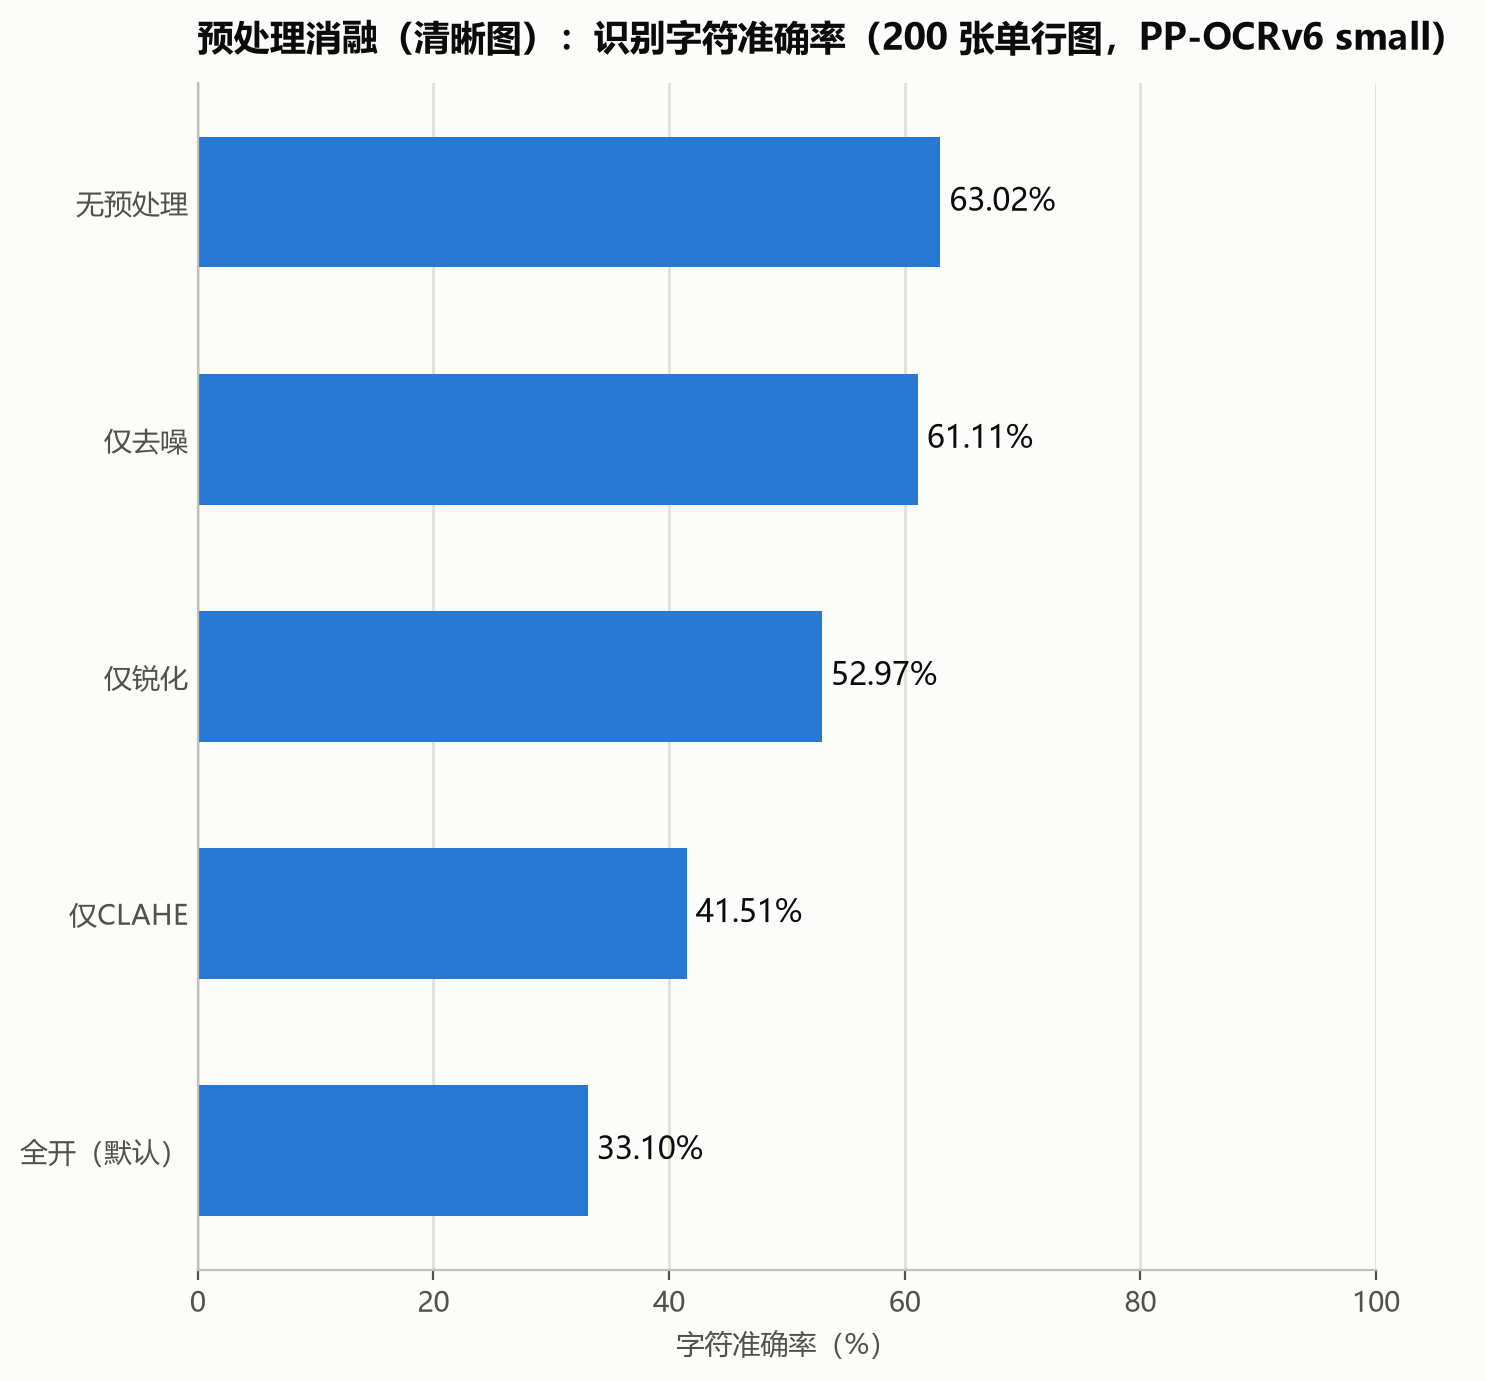
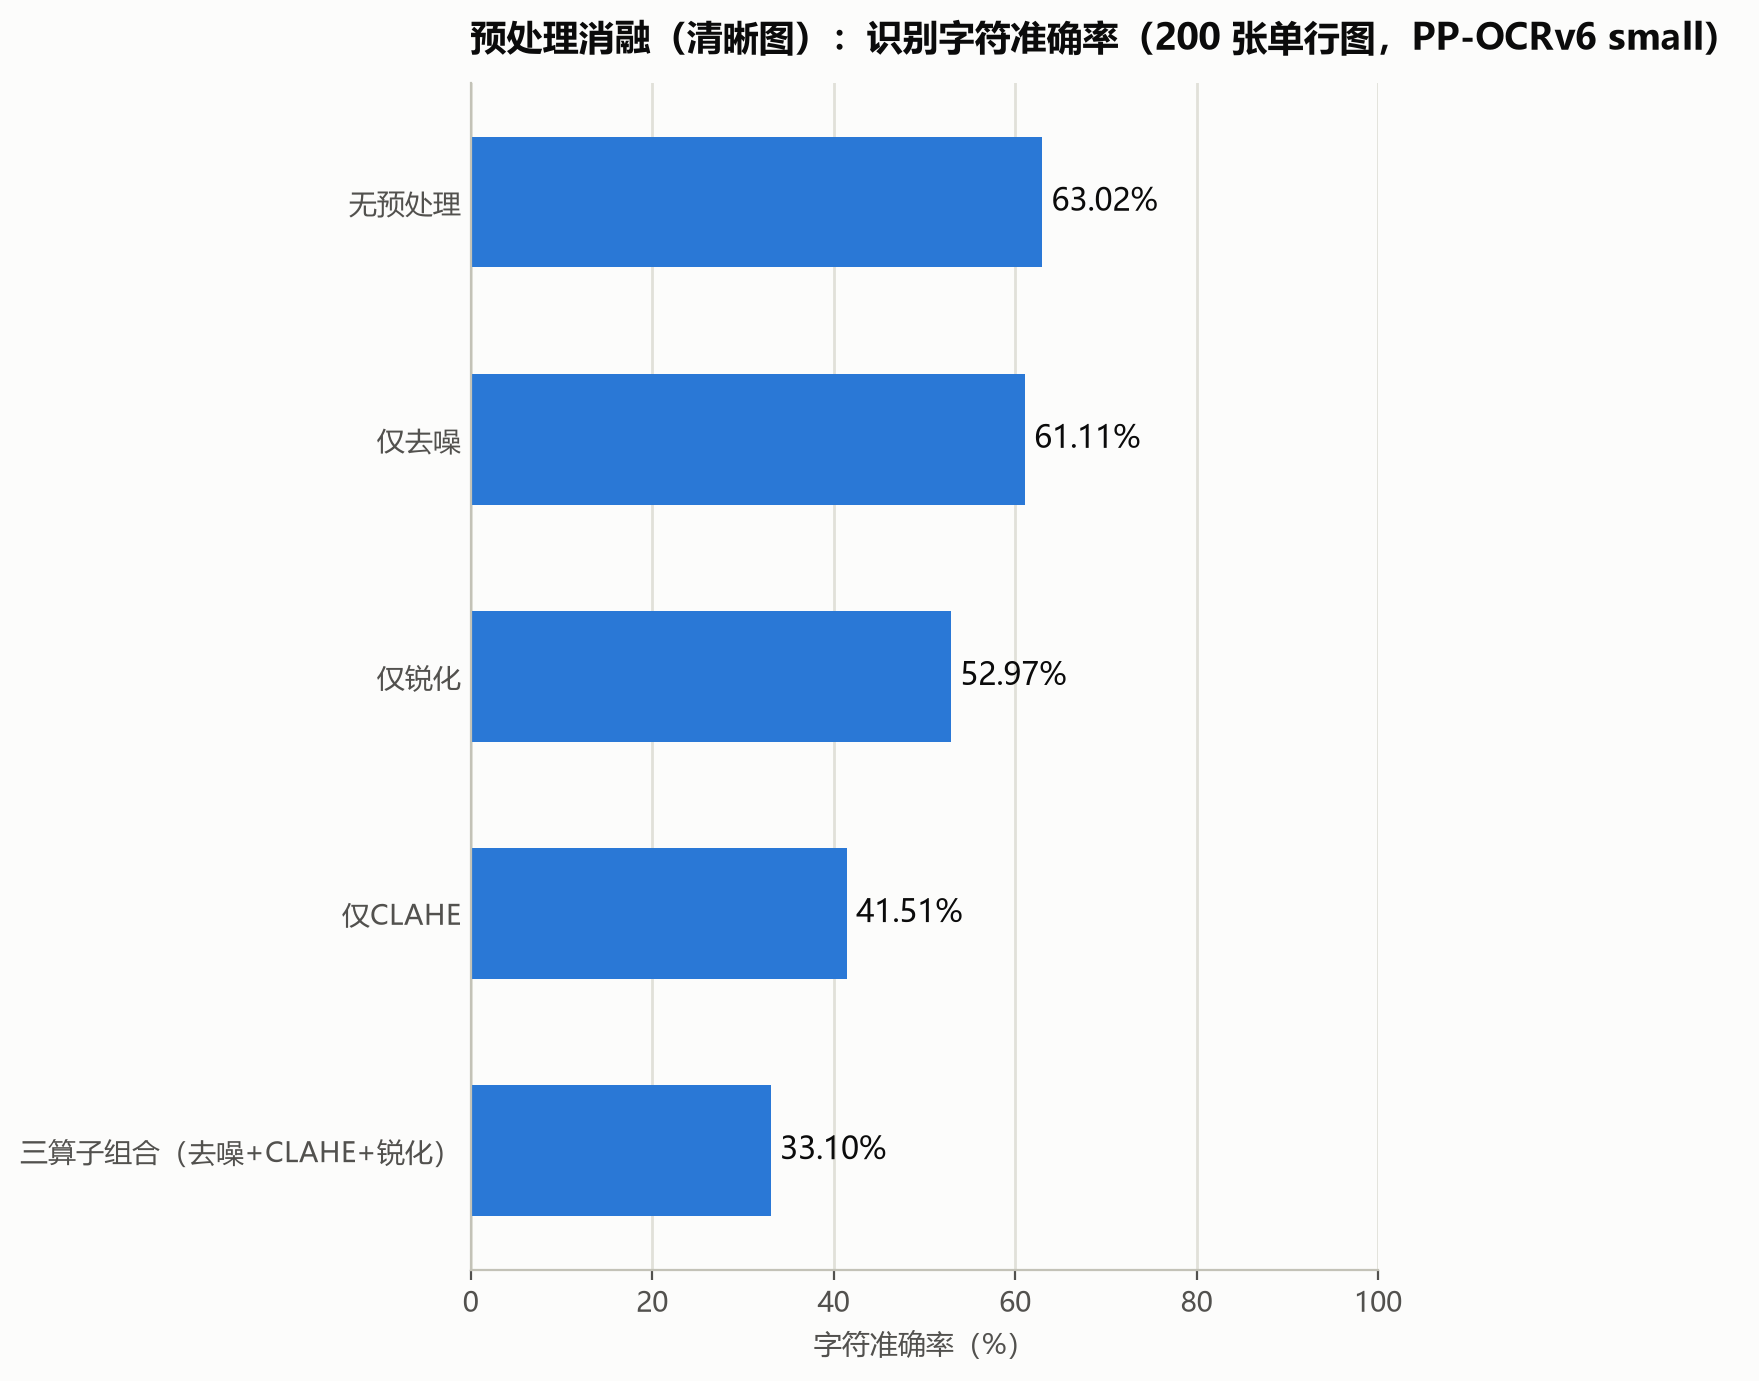
fix(ablation): 把错误标签「全开（默认）」改为自解释的「三算子组合」（A2/A5）
审计 P2-25：这组配置只开了 denoise+contrast+sharpen（8 个算子里还关着 5 个），
而"默认"在出厂配置里是全关——两个词都是错的，却直接进产物表格与图表，
于是"有害配置"被标成了"默认"。

改名 全开（默认） → 三算子组合（去噪+CLAHE+锐化），同步 5 处：
evaluate_ablation.py、data/results/ablation_{results,degraded}.md、
docs/evaluation_report.md、make_figures.py、tools/check_consistency.py。

**只改标签，数值一个没动**：随后重新派生 metrics/ablation.json 并重生成
ablation.png / ablation_degraded.png（已目视确认长标签未裁切、柱值仍为
63.02 / 61.11 / 52.97 / 41.51 / 33.10）。
data/results/superseded/ 与 logs*/ 内的旧名刻意保留——那是历史存档。

另修审计 P2-24：报告第七节不再用"CLAHE −21.5 + 锐化 −10.1 + 去噪 −1.9"
暗示加性分解，改为直接报组合值 −29.9 点，并写明三项之和 −33.5 与组合 −29.9
的差额 +3.6 点来自算子间交互、两组数字不可互相推算。

diff --git a/evaluate_ablation.py b/evaluate_ablation.py
@@ -32,18 +32,22 @@ from src.pipeline.ocr_pipeline import SceneTextOCR, imread_unicode
 from src.preprocess.enhancer import ImageEnhancer
 
 # 配置名 -> ImageEnhancer 构造参数（其余开关默认关）
+#
+# ⚠ 命名注意（审计 P2-25）：这组"三个算子一起开"的配置曾叫「三算子组合（去噪+CLAHE+锐化）」，
+# 两个词都是错的——它只开了 denoise+contrast+sharpen（8 个算子里还关着 5 个），
+# 而"默认"在出厂配置里是**全关**。名字会直接进产物表格与图表，所以改成自解释的名字。
 CONFIGS: Dict[str, dict] = {
     "无预处理": dict(denoise=False, contrast=False, sharpen=False),
     "仅去噪": dict(denoise=True, contrast=False, sharpen=False),
     "仅CLAHE": dict(denoise=False, contrast=True, sharpen=False),
     "仅锐化": dict(denoise=False, contrast=False, sharpen=True),
-    "全开（默认）": dict(denoise=True, contrast=True, sharpen=True),
+    "三算子组合（去噪+CLAHE+锐化）": dict(denoise=True, contrast=True, sharpen=True),
 }
 
 # 退化图消融用（去掉仅锐化——噪声图上锐化必然有害）
 DEGRADED_CONFIGS: Dict[str, dict] = {
     "无预处理": dict(denoise=False, contrast=False, sharpen=False),
-    "全开（默认）": dict(denoise=True, contrast=True, sharpen=True),
+    "三算子组合（去噪+CLAHE+锐化）": dict(denoise=True, contrast=True, sharpen=True),
     "仅去噪": dict(denoise=True, contrast=False, sharpen=False),
     "仅CLAHE": dict(denoise=False, contrast=True, sharpen=False),
 }
@@ -204,7 +208,7 @@ def main() -> None:
     lines.append(
         "> ⚠ **耗时必须与「检出框数」一起看**：每个检出框都要跑一次识别，所以耗时主要由"
         "**检出框数**决定。一个把检测弄坏的配置会因为框变少而显得很快（例如清晰图下的"
-        "「全开」），把它解读为「算法更快」是错的。"
+        "「三算子组合」），把它解读为「算法更快」是错的。"
     )
     if args.mode == "degraded":
         lines.append("")

diff --git a/make_figures.py b/make_figures.py
@@ -380,8 +380,8 @@ def make_operator_chart():
 def make_ablation_chart():
     """预处理消融柱状图（按准确率降序）。"""
     _h_bar(
-        ["无预处理", "仅去噪", "仅锐化", "仅CLAHE", "全开（默认）"],
-        [_abl("clean", c) for c in ["无预处理", "仅去噪", "仅锐化", "仅CLAHE", "全开（默认）"]],
+        ["无预处理", "仅去噪", "仅锐化", "仅CLAHE", "三算子组合（去噪+CLAHE+锐化）"],
+        [_abl("clean", c) for c in ["无预处理", "仅去噪", "仅锐化", "仅CLAHE", "三算子组合（去噪+CLAHE+锐化）"]],
         "预处理消融（清晰图）：识别字符准确率（200 张单行图，PP-OCRv6 small）",
         "字符准确率（%）",
         "{:.2f}%",
@@ -389,8 +389,8 @@ def make_ablation_chart():
         xlim=100,
     )
     _h_bar(
-        ["仅去噪", "无预处理", "仅CLAHE", "全开（默认）"],
-        [_abl("degraded", c) for c in ["仅去噪", "无预处理", "仅CLAHE", "全开（默认）"]],
+        ["仅去噪", "无预处理", "仅CLAHE", "三算子组合（去噪+CLAHE+锐化）"],
+        [_abl("degraded", c) for c in ["仅去噪", "无预处理", "仅CLAHE", "三算子组合（去噪+CLAHE+锐化）"]],
         "预处理消融（退化图）：识别字符准确率（200 张单行图，PP-OCRv6 small）",
         "字符准确率（%）",
         "{:.2f}%",

diff --git a/tools/check_consistency.py b/tools/check_consistency.py
@@ -191,11 +191,11 @@ def main() -> int:
     up = delta("small", "仅放大", "无预处理")
     dn = delta("degraded", "仅去噪", "无预处理")
     sh = delta("blur", "仅锐化", "无预处理")
-    all_on = -delta("clean", "无预处理", "全开（默认）")
+    all_on = -delta("clean", "无预处理", "三算子组合（去噪+CLAHE+锐化）")
     check("README 小字放大差值", "README.md", f"+{up:.1f}")
     check("README 去噪差值", "README.md", f"+{dn:.1f}")
     check("README 锐化差值", "README.md", f"+{sh:.1f}")
-    check("README 清晰图全开代价", "README.md", f"{all_on:.0f} 字符点")
+    check("README 清晰图三算子组合代价", "README.md", f"{all_on:.0f} 字符点")
 
     # ---- 结构性断言：核心结论不得回退到旧表述 ----
     check("报告 §五 有按官方口径重写的结论", "docs/evaluation_report.md", "5.0 结论（2026-10-06 按官方口径重写）")

diff --git a/data/results/ablation_degraded.md b/data/results/ablation_degraded.md
@@ -13,6 +13,6 @@
 | --- | --- | --- | --- | --- | --- | --- |
 
 | 无预处理 | 0.1538 | 0.1300 | 0.17 | 0.033s | 0.050s | 0.148s |
-| 全开（默认） | 0.0785 | 0.0700 | 0.11 | 0.036s | 0.048s | 0.162s |
+| 三算子组合（去噪+CLAHE+锐化） | 0.0785 | 0.0700 | 0.11 | 0.036s | 0.048s | 0.162s |
 | 仅去噪 | 0.3226 | 0.2500 | 0.36 | 0.037s | 0.068s | 0.152s |
 | 仅CLAHE | 0.0943 | 0.0750 | 0.14 | 0.036s | 0.051s | 0.158s |

diff --git a/data/results/ablation_results.md b/data/results/ablation_results.md
@@ -14,4 +14,4 @@
 | 仅去噪 | 0.6111 | 0.5200 | 0.67 | 0.120s | 0.098s | 0.167s |
 | 仅CLAHE | 0.4151 | 0.3500 | 0.55 | 0.110s | 0.089s | 0.180s |
 | 仅锐化 | 0.5297 | 0.4250 | 0.68 | 0.118s | 0.100s | 0.187s |
-| 全开（默认） | 0.3310 | 0.3000 | 0.39 | 0.038s | 0.072s | 0.175s |
+| 三算子组合（去噪+CLAHE+锐化） | 0.3310 | 0.3000 | 0.39 | 0.038s | 0.072s | 0.175s |
